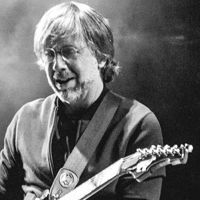
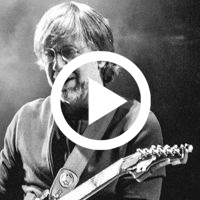
Fixes
converted all img to classes, fixed html validation errors

Changed region(s): [[0.24, 0.24, 0.78, 0.75], [0.42, 0.39, 0.63, 0.63]]

diff --git a/js/lightbox.js b/js/lightbox.js
@@ -1,8 +1,8 @@
-var $overlay = $('<div id="overlay"></div>')
-var $overlayContainer = $('<div id="img-wrapper"><a id="arrow-left"></a><div id="media-container"></div><a id="arrow-right"></a><a id="close-button"></a></div>')
-var $caption = $('<p id="caption"></p>')
-var $imageElement = $('<img id="overlay-img">');
-var $videoElement = $('<iframe id="overlay-video" width="667" height="421" frameborder="0"></iframe>');
+var $overlay = $('<div class="overlay"></div>')
+var $overlayContainer = $('<div class="img-wrapper"><a class="arrow-left"></a><div class="media-container"></div><a class="arrow-right"></a><a class="close-button"></a></div>')
+var $caption = $('<p class="caption"></p>')
+var $imageElement = $('<img class="overlay-img">');
+var $videoElement = $('<iframe class="overlay-video" width="700" height="485" frameborder="0"></iframe>');
 var $mediaSelected = $('');
 var $mediaLocation = $('');
 var $captionClicked = $('');
@@ -13,10 +13,10 @@ var $nextMediaDiv = $('');
 function nextVideo(getDiv){
 
 		//get $mediaLocation
-		$mediaLocation = getDiv.find("a").attr("src");
+		$mediaLocation = getDiv.find("img").attr("href");
 		
 		//update the #overlay-video
-		$("#overlay-video").attr("src", $mediaLocation);
+		$(".overlay-video").attr("src", $mediaLocation);
 
 		//update $mediaSelected
 		$mediaSelected = getDiv.find("a");
@@ -28,7 +28,7 @@ function nextImage(getDiv){
 		$mediaLocation = getDiv.find("a").attr("href");
 
 		//update the #overlay-img's src attribute
-		$('#overlay-img').attr("src", $mediaLocation);
+		$('.overlay-img').attr("src", $mediaLocation);
 		
 		//update mediaSelected to be current media
 		$mediaSelected = getDiv.find("a");
@@ -76,8 +76,8 @@ function cycleMedia(getDiv) {
 
 /*This function checks what image was selected by user, and shows appropriate arrows. 
 Don't want to show left arrow if user clicked 1st image.*/
-function arrowCheck(arrow, id) {
-	if($mediaSelected.is(id)){
+function arrowCheck(arrow, position) {
+	if($mediaSelected.is(position)){
 		$(arrow).hide();
 	} else {
 		$(arrow).show();
@@ -111,13 +111,13 @@ $(".container a").click(function(event){
 	if($mediaSelected.is(".video")){
 
 		//capture the video source
-		$mediaLocation = $(this).attr("src");
+		$mediaLocation = $(this).find("img").attr("href");
 
 		//update the overlay-video with the video location
 		$videoElement.attr("src", $mediaLocation)
 
 		//its an image, so append the $imageElement
-		$('#media-container').append($videoElement);
+		$('.media-container').append($videoElement);
 
 	} else {
 		
@@ -128,7 +128,7 @@ $(".container a").click(function(event){
 		$imageElement.attr("src", $mediaLocation);
 
 		//its an image, so append the $imageElement
-		$('#media-container').append($imageElement)
+		$('.media-container').append($imageElement)
 	}
 
 	
@@ -144,8 +144,8 @@ $(".container a").click(function(event){
 	//show the overlay
 	$overlay.show();
 
-	arrowCheck('#arrow-left', '#first');
-	arrowCheck('#arrow-right', '#last');
+	arrowCheck('.arrow-left', '.first');
+	arrowCheck('.arrow-right', '.last');
 
 
 });
@@ -158,24 +158,24 @@ $overlay.click(function(event){
 	var clicked = $(event.target);
 	
 	//hide and stop video if click was not on overlay image wrapper
-	if(!clicked.is('#overlay-img')){
+	if(!clicked.is('.overlay-img')){
 		
 		//hide overlay
 		$overlay.hide();
 
 		//remove Element in media container
-		$('#media-container').children().remove();
+		$('.media-container').children().remove();
 
 		//if overlay was a video, this stops the video playback
-		$("#overlay-video").attr("src", "");
+		$(".overlay-video").attr("src", "");
 	} 	
 })
 
 //When arrows are clicked, we want to cycle through the images backward or forward
 
-$("#arrow-left").click(function(){
+$(".arrow-left").click(function(){
 
-	if(!$mediaSelected.is("#first")) {
+	if(!$mediaSelected.is(".first")) {
 		
 		//traverse up DOM to get next .pics div
 		$prevMediaDiv = $mediaSelected.closest("div").prev();
@@ -184,15 +184,15 @@ $("#arrow-left").click(function(){
 
 	}
 
-	arrowCheck('#arrow-left', '#first');
-	arrowCheck('#arrow-right', '#last');
+	arrowCheck('.arrow-left', '.first');
+	arrowCheck('.arrow-right', '.last');
 	
 	return false;
 })
 
-$("#arrow-right").click(function(){
+$(".arrow-right").click(function(){
 	
-	if(!$mediaSelected.is("#last")) {
+	if(!$mediaSelected.is(".last")) {
 	
 		//traverse down DOM to get next .pics div
 		$nextMediaDiv = $mediaSelected.closest("div").next();
@@ -201,8 +201,8 @@ $("#arrow-right").click(function(){
 	
 	}
 
-	arrowCheck('#arrow-left', '#first');
-	arrowCheck('#arrow-right', '#last'); 
+	arrowCheck('.arrow-left', '.first');
+	arrowCheck('.arrow-right', '.last'); 
 	
 	return false;
 })
@@ -215,7 +215,7 @@ $("body").keydown(function(event){
 	if($overlay.css("display") != "none"){
 		//if overlay showing, then cycle images to right with right arrow key press
 		if(event.which == 37){
-			if(!$mediaSelected.is("#first")) {
+			if(!$mediaSelected.is(".first")) {
 		
 				//traverse up DOM to get next .pics div
 				$prevMediaDiv = $mediaSelected.closest("div").prev();
@@ -223,8 +223,8 @@ $("body").keydown(function(event){
 				cycleMedia($prevMediaDiv);
 			}
 
-			arrowCheck('#arrow-left', '#first');
-			arrowCheck('#arrow-right', '#last'); 
+			arrowCheck('.arrow-left', '.first');
+			arrowCheck('.arrow-right', '.last'); 
 		} 
 	}
 });
@@ -235,7 +235,7 @@ $("body").keydown(function(event){
 	if($overlay.css("display") != "none"){
 		//if overlay showing, then cycle images to right with right arrow key press
 		if(event.which == 39){
-			if(!$mediaSelected.is("#last")) {
+			if(!$mediaSelected.is(".last")) {
 	
 				//traverse down DOM to get next .pics div
 				$nextMediaDiv = $mediaSelected.closest("div").next();
@@ -243,8 +243,8 @@ $("body").keydown(function(event){
 				cycleMedia($nextMediaDiv); 
 				}
 
-			arrowCheck('#arrow-left', '#first');
-			arrowCheck('#arrow-right', '#last'); 
+			arrowCheck('.arrow-left', '.first');
+			arrowCheck('.arrow-right', '.last'); 
 		} 
 	}
 });

diff --git a/index.html b/index.html
@@ -12,12 +12,12 @@
   </head>
   <body>
     <header class="main-header">
-  		<input type="text" id="search" placeholder="Type your search"></input>
+  		<input type="text" class="search" placeholder="Type your search">
   	</header>
       
     <div class="container">
       <div class="pics">
-        <a href="images/01.jpg" id="first"><img src="images/thumbnails/01.jpg" title="farm" alt="This is farmland in lower Tuscany. We went here after Rome and had some very nice wine as we travelled around the region."></a>
+        <a href="images/01.jpg" class="first"><img src="images/thumbnails/01.jpg" title="farm" alt="This is farmland in lower Tuscany. We went here after Rome and had some very nice wine as we travelled around the region."></a>
       </div>
       <div class="pics">
         <a href="images/02.jpg"><img src="images/thumbnails/02.jpg" title="lake" alt="This is some sweet lake in switzerland. Switzerland is known for chocolate, brilliant watches, and neutrality. Also, the swiss have a refined taste for wheels"></a>
@@ -28,37 +28,31 @@
       <div class="pics">
         <a href="images/04.jpg"><img src="images/thumbnails/04.jpg" title="glacier" alt="this is alaska, super wicked. I went there once and there were elk everywhere. And I mean everywhere, it was an elk pandemic. "></a>
       </div>
-        <div class="pics">
+      <div class="pics">
         <a href="images/05.jpg"><img src="images/thumbnails/05.jpg" title="canyon" alt="red rocks in Colorado. I saw the dead play there once, I think I saw god."></a>
       </div>
       <div class="pics">
         <a href="images/06.jpg"><img src="images/thumbnails/06.jpg" title="wilderness" alt="at the cottage, straight chilling. They have snakes you know. snakes and bats. snakes and bats and warthogs. They go all night."></a>
       </div>
-        <div class="pics">
-        <a href="images/07.jpg" class = "video" src="https://www.youtube.com/embed/FjdtttgAGTM"><img src="images/thumbnails/07.jpg" title="pond" alt="picture from monet's estate. monetg was a strange guy, he used to bathe in vengar and salt. He thought it would improve his memory."></a>
+      <div class="pics">
+        <a href="images/07.jpg" class = "video"><img src="images/thumbnails/07.jpg" href="https://www.youtube.com/embed/FjdtttgAGTM" title="pond" alt="RAGE PHISH! He used to bathe in vinegar and salt. He thought it would improve his memory."></a>
       </div>
       <div class="pics">
         <a href="images/08.jpg"><img src="images/thumbnails/08.jpg" title="desert" alt="SAND!"></a>
       </div>
-        <div class="pics">
+      <div class="pics">
         <a href="images/09.jpg"><img src="images/thumbnails/09.jpg" title="path" alt="tunnel vision"></a>
       </div>
       <div class="pics">
         <a href="images/10.jpg"><img src="images/thumbnails/10.jpg" title="coastline" alt="big sur"></a>
       </div>
-        <div class="pics">
+      <div class="pics">
         <a href="images/11.jpg"><img src="images/thumbnails/11.jpg" title="cave" alt="epic view from the hole"></a>
       </div>
       <div class="pics">
-        <a href="images/12.jpg"><img src="images/thumbnails/12.jpg" title="cave" alt="epic view from the hole"></a>
+        <a href="images/12.jpg" class="last video"><img src="images/thumbnails/12.jpg" href="https://www.youtube.com/embed/x5U2K_iN_lU" title="cave" alt="Rage Phish!"></a>
       </div>
-      <div class="pics">
-        <a href="images/13.jpg"><img src="images/thumbnails/13.jpg" title="cave" alt="epic view from the hole"></a>
-      </div>
-      <div class="pics">
-        <a href="images/14.jpg" id="last" class="video" src="https://www.youtube.com/embed/BzlRtyr29RQ"><img src="images/thumbnails/14.jpg" title="cave" alt="epic view from the hole"></a>
-      </div>
-
+    </div>
 
     <script src="http://code.jquery.com/jquery-1.12.0.min.js"></script>
     <script src="js/lightbox.js" type="text/javascript"></script>

diff --git a/css/main.css b/css/main.css
@@ -10,7 +10,7 @@
 }
 /** for mentor -  tried to use vertical align, but found manual method of adjusting height and padding was easiest **/
 
-#search {
+.search {
 	display: block;
 	margin: 0 auto;
 	width: 300px;
@@ -50,7 +50,7 @@
 
 /** JQUERY OBJECTS **/
 
-#overlay {
+.overlay {
     position: fixed;
     top: 0;
     left: 0;
@@ -61,41 +61,40 @@
     text-align: center;
 }
 
-#overlay-img {
+.overlay-img {
 	width: 100%;
 	max-width: 850px;
 	z-index: 100;
 }
 
-
-#caption {
+.caption {
 	color: white;
 	max-width: 80%;
 	text-align: center;
 	margin: 20px auto;
 }
 
-#img-wrapper {
+.img-wrapper {
 	position: relative;
 	width: 60%;
 	max-width: 850px;
 	margin: 30% auto 0px;
 }
 
-#arrow-right {
+.arrow-right {
 	position: absolute;
 	top: 50%;
 	right: -20%;
 	color: white;
 }
 
-#arrow-right:hover,
-#arrow-left:hover,
-#close-button {
+.arrow-right:hover,
+.arrow-left:hover,
+.close-button {
 	cursor: pointer;
 }
 
-#arrow-right::before {
+.arrow-right::before {
 	content: '';
 	width: 1.5em;
     height: 1.5em;
@@ -105,14 +104,14 @@
     display: block;
 }
 
-#arrow-left {
+.arrow-left {
 	position: absolute;
 	top: 50%;
 	left: -20%;
 	color: white;
 }
 
-#arrow-left::before {
+.arrow-left::before {
 	content: '';
 	width: 1.5em;
     height: 1.5em;
@@ -122,7 +121,7 @@
     display: block;
 }
 
-#close-button {
+.close-button {
 	position: absolute;
 	top: -15%;
 	right: -20%;
@@ -131,7 +130,7 @@
 	height: 40px;
 }
 
-#close-button::before {
+.close-button::before {
 	position: absolute;
 	top: 0%;
     right: 0%;
@@ -143,7 +142,7 @@
     transform: rotate(45deg);
 }
 
-#close-button::after {
+.close-button::after {
     position: absolute;
 	top: 0%;
     right: 0%;
@@ -166,11 +165,11 @@
 /** MEDIA QUERIES **/
 
 @media (min-width: 820px) {
-	#search {
+	.search {
 		width: 460px;
 	}
 
-	#img-wrapper {
+	.img-wrapper {
 		position: relative;
 		width: 60%;
 		max-width: 850px;
@@ -178,14 +177,14 @@
 	
 	}
 
-	#caption {
+	.caption {
 		color: white;
 		max-width: 600px;
 		text-align: center;
 		margin: 20px auto;
 	}
 
-	#close-button {
+	.close-button {
 		right: -10%;
 	}
 }

diff --git a/js/search-box.js b/js/search-box.js
@@ -4,7 +4,7 @@ var count = 0;
 
 
 //When user enters text in the input field, check the alt text on imgs and only show imgs that match input text
-$('#search').keyup(function() {
+$('.search').keyup(function() {
 	
 	//store the input text and store count of number of characters in input
 	$value = $(this).val().toLowerCase();
